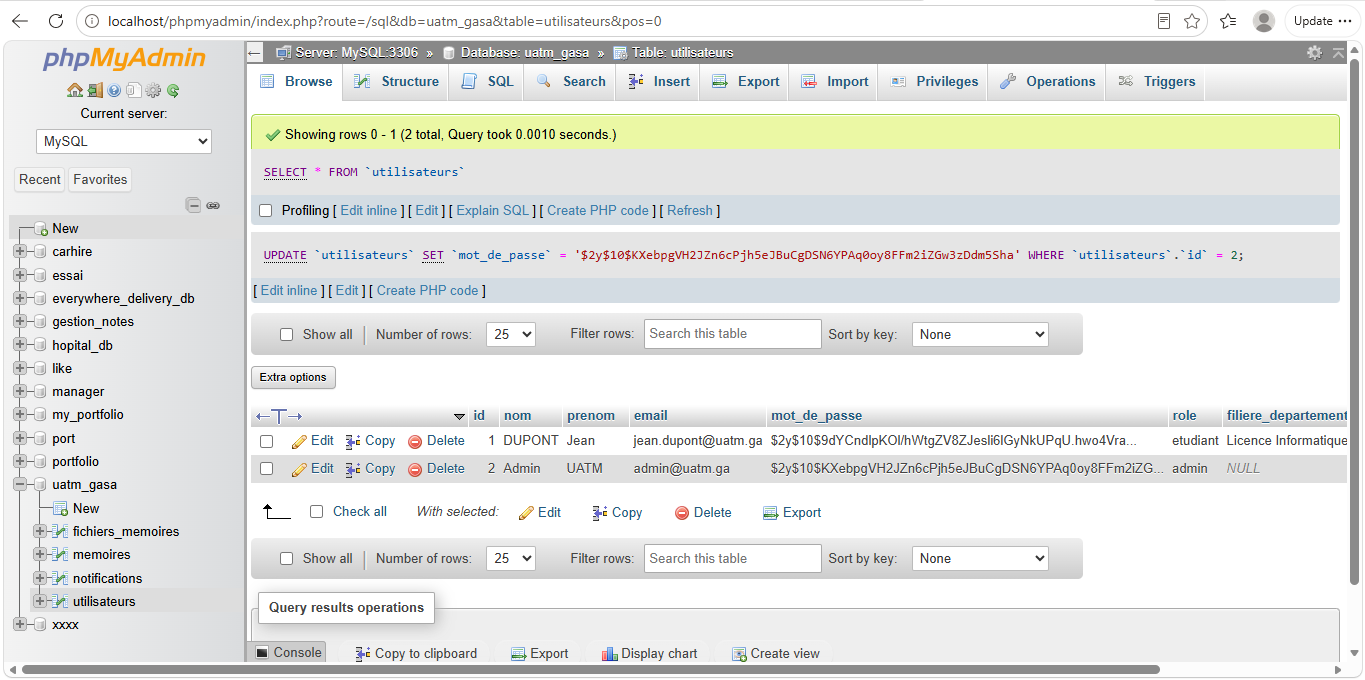
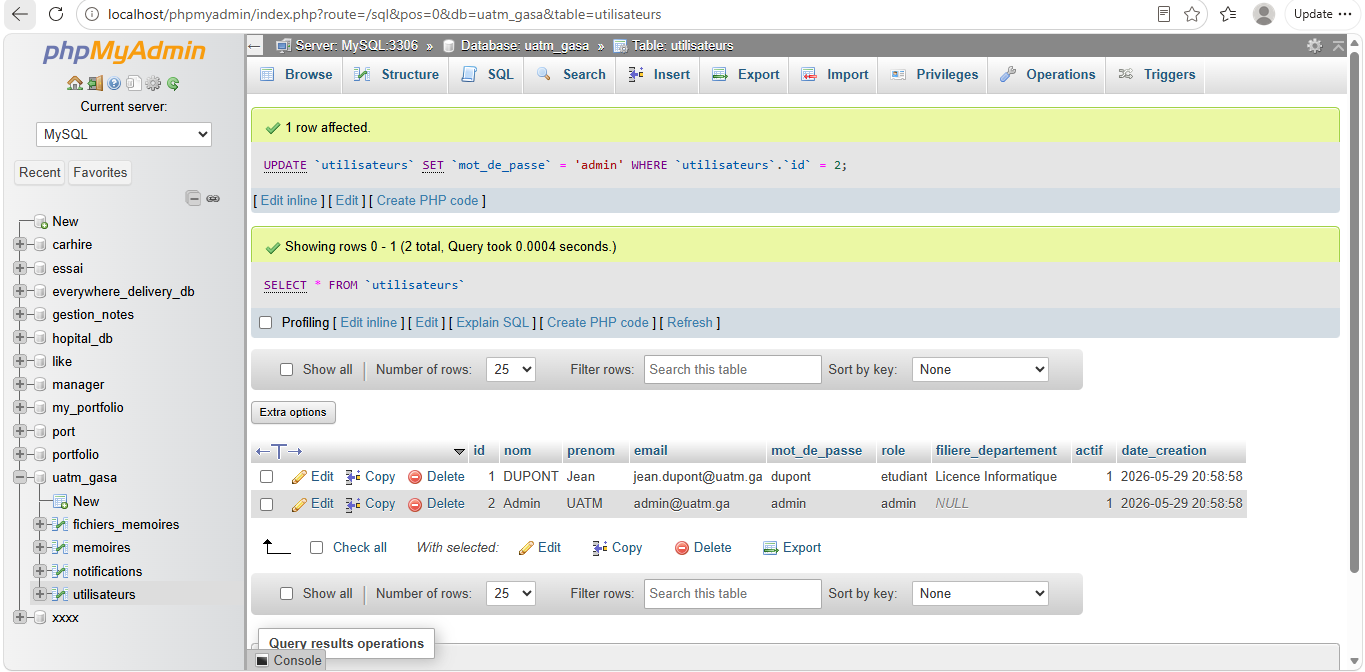
Ajout page login et upload memoire et les capture

diff --git a/upload_memoire.php b/upload_memoire.php
@@ -2,7 +2,6 @@
 session_start();
 $db=new PDO('mysql:host=127.0.0.1;dbname=uatm_gasa','root','');
  
-// TEMPORAIRE : pour tester sans passer par login.php (supprimer en production)
 if(!isset($_SESSION['user'])){
 	$_SESSION['user']=['id'=>1,'nom'=>'Jean DUPONT','role'=>'Étudiant'];
 }
@@ -41,7 +40,6 @@ if(isset($_POST['btn']) && $_POST['btn']=='upload'){
 	}
 }
  
-// Notifications (mettre 0 si la table n'existe pas encore)
 $notifs=0;
 try{
 	$req=$db->prepare('SELECT COUNT(*) FROM notifications WHERE utilisateur_id=? AND lu=0');
@@ -63,7 +61,6 @@ $filieres=['Licence Informatique','Master Informatique','Licence Gestion','Maste
 *,*::before,*::after{box-sizing:border-box;margin:0;padding:0;}
 :root{--navy:#0d3b9e;--dark:#0a2a6e;--light:#1a4fc4;--bg:#f4f6fb;--white:#fff;--border:#dde2ee;--text:#1a1a2e;--muted:#6b7280;}
 body{font-family:'Source Sans 3',sans-serif;background:var(--bg);color:var(--text);min-height:100vh;display:flex;}
-/* SIDEBAR */
 .sidebar{width:260px;background:var(--white);border-right:1px solid var(--border);display:flex;flex-direction:column;position:fixed;top:0;left:0;height:100vh;z-index:100;}
 .brand{background:linear-gradient(135deg,var(--dark),var(--light));padding:10px 16px;display:flex;align-items:center;gap:10px;color:#fff;min-height:64px;}
 .brand img{width:44px;height:44px;object-fit:contain;flex-shrink:0;}
@@ -77,7 +74,6 @@ body{font-family:'Source Sans 3',sans-serif;background:var(--bg);color:var(--tex
 .ico{width:20px;text-align:center;font-size:17px;flex-shrink:0;}
 .badge{margin-left:auto;background:#e53e3e;color:#fff;font-size:11px;font-weight:700;padding:1px 7px;border-radius:20px;}
 .sbot{padding:16px 0;border-top:1px solid var(--border);}
-/* MAIN */
 .main{margin-left:260px;flex:1;display:flex;flex-direction:column;min-height:100vh;}
 .topbar{height:64px;background:var(--white);border-bottom:1px solid var(--border);display:flex;align-items:center;padding:0 28px;gap:16px;position:sticky;top:0;z-index:50;}
 .topbar .title{font-size:19px;font-weight:600;color:var(--text);flex:1;}
@@ -88,7 +84,6 @@ body{font-family:'Source Sans 3',sans-serif;background:var(--bg);color:var(--tex
 .uav{width:36px;height:36px;background:var(--bg);border:1.5px solid var(--border);border-radius:50%;display:flex;align-items:center;justify-content:center;font-size:18px;}
 .uname{font-size:13.5px;font-weight:600;color:var(--text);}
 .urole{font-size:12px;color:var(--navy);}
-/* CONTENT */
 .content{padding:32px 36px;flex:1;}
 .ptitle{font-size:24px;font-weight:700;color:var(--text);margin-bottom:24px;}
 .card{background:var(--white);border:1px solid var(--border);border-radius:14px;overflow:hidden;}
